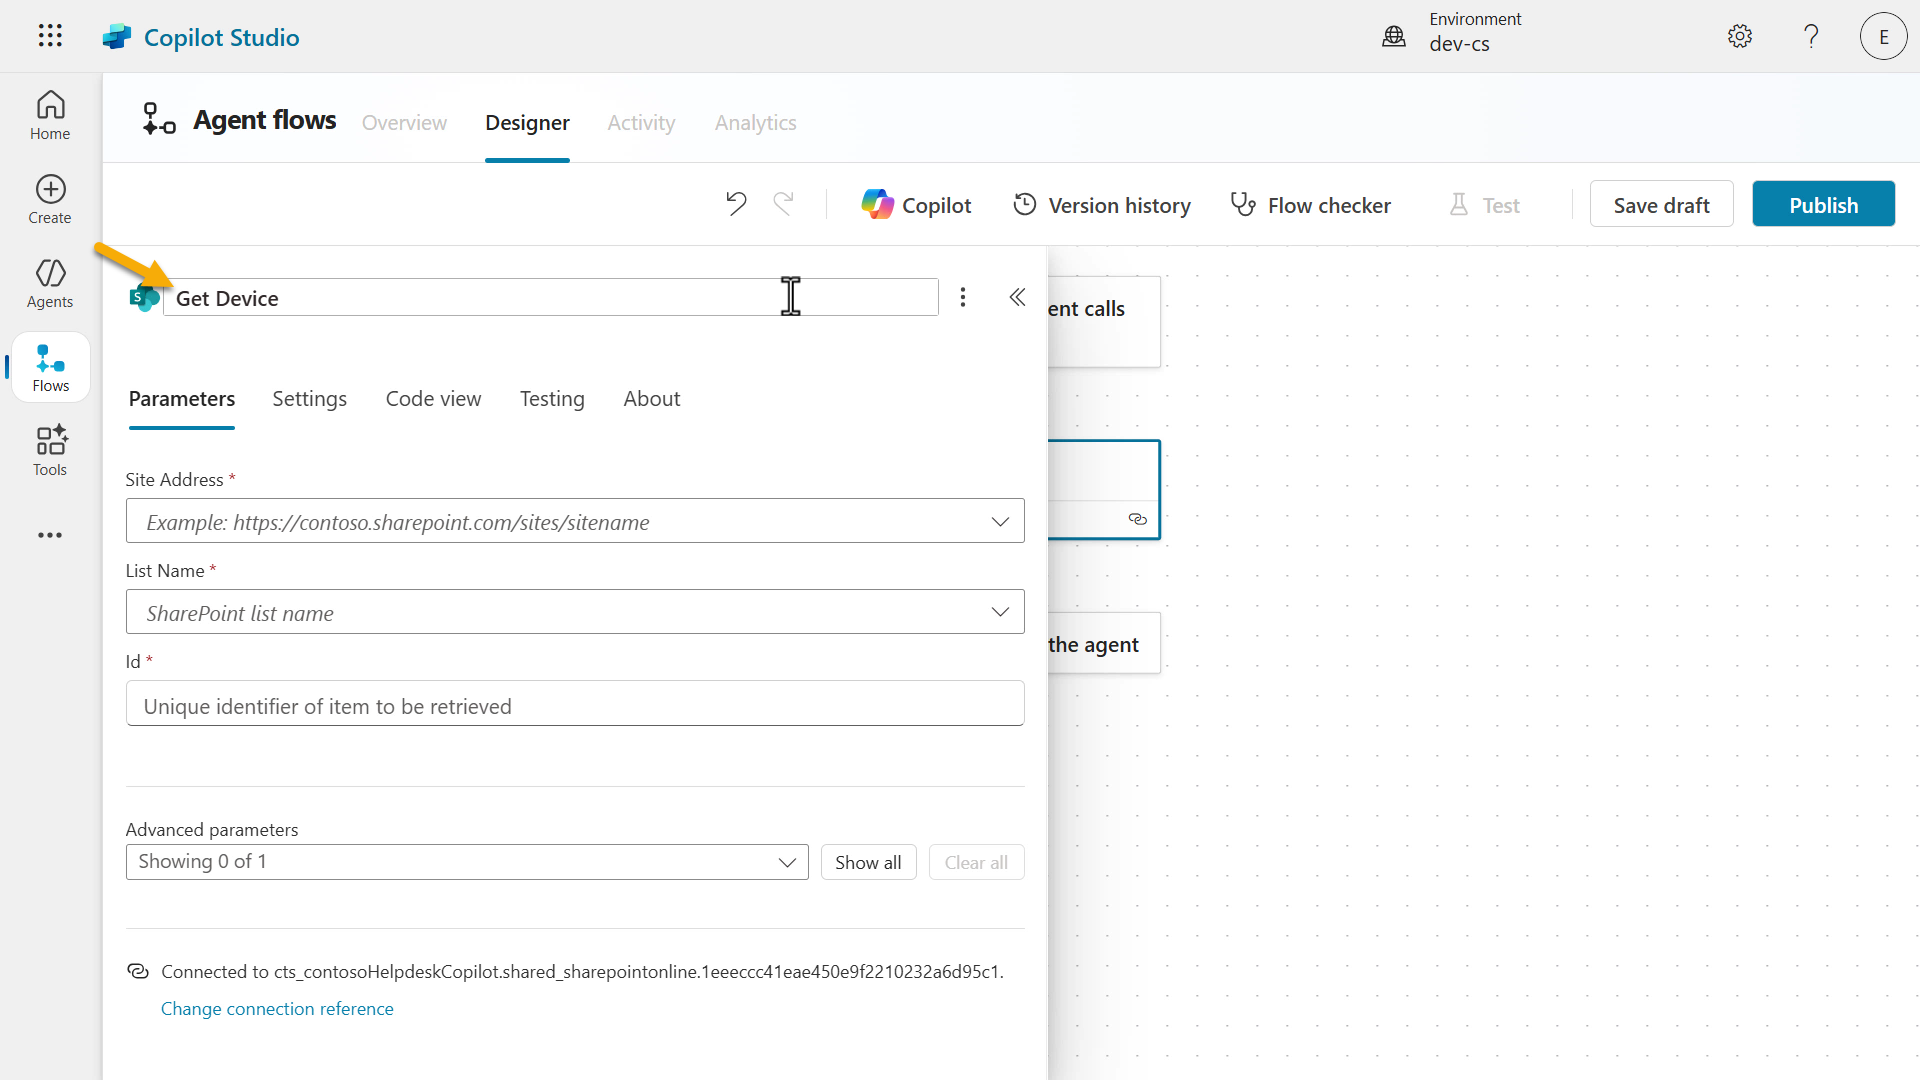
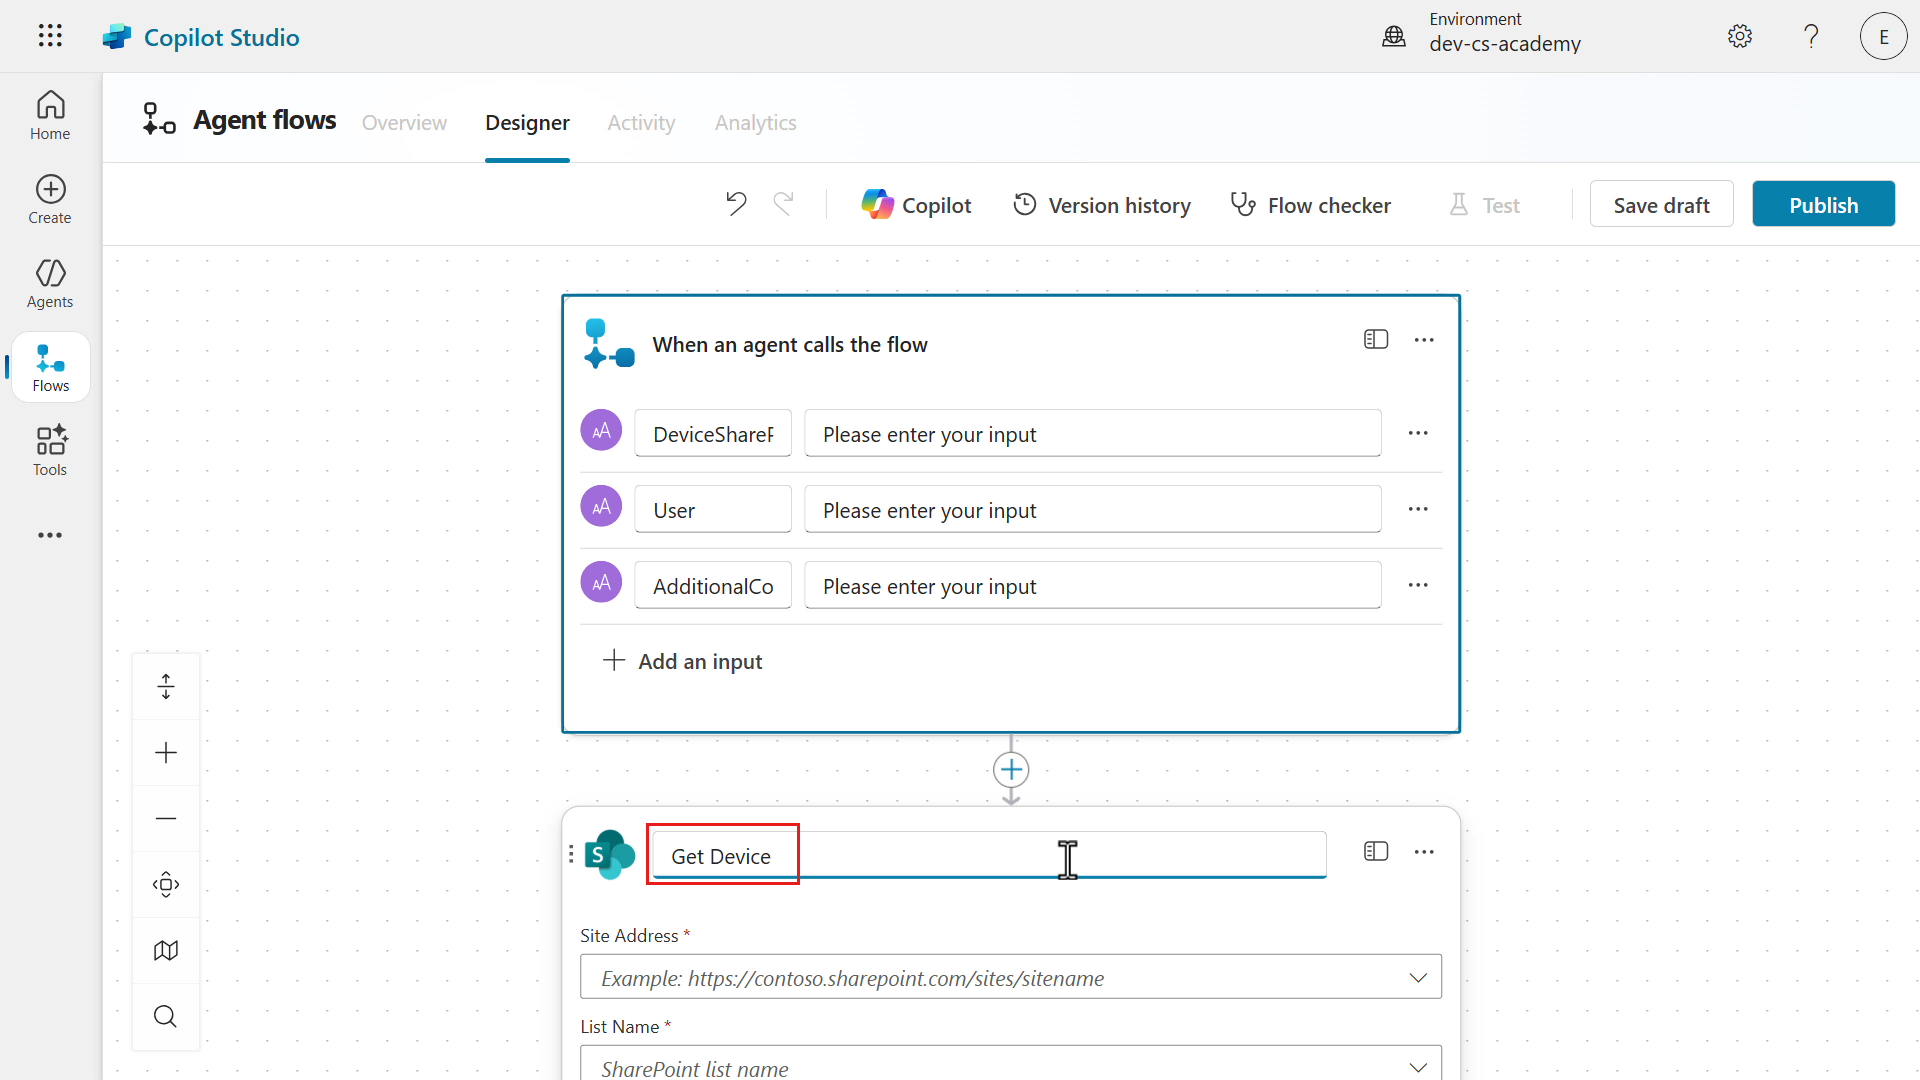
Updated images

diff --git a/docs/recruit/09-add-an-agent-flow/README.md b/docs/recruit/09-add-an-agent-flow/README.md
@@ -439,7 +439,17 @@ In this exercise, we'll create an agent flow that retrieves the SharePoint item 
 
     ![Get item action](./assets/9.1_12_AddGetItemAction.png)
 
-1. We can now begin configuring the **Get item** action. Rename the action to,
+1. We can now begin configuring the **Get item** action.
+
+    Select the **Ellipsis (...)** icon in the **Get item** action.
+
+    ![Select ellipsis](./assets/9.1_13_SelectEllipsis.png)
+
+1. Select **Rename**.
+
+    ![Select Rename](./assets/9.1_14_SelectRename.png)
+
+1. Rename the action to,
 
     ```text
     Get Device
